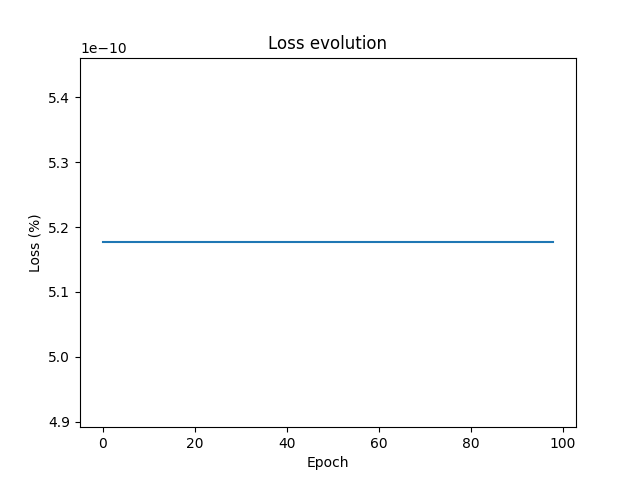
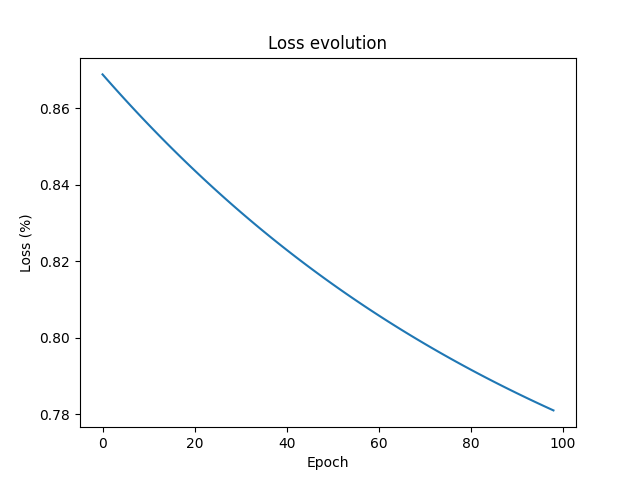
maj

diff --git a/src/model.py b/src/model.py
@@ -116,7 +116,8 @@ class CustomLoss(nn.Module):
         positive = torch.count_nonzero(adjacency_matrixes).item()
         negative = (entities_count**2) * graph.get_relations_count() - positive
         
-        return (-1 / ((1 + negative) * positive)) * loss.sum()
+        # return (-1 / ((1 + negative) * positive)) * loss.sum()
+        return torch.mean(-1 * loss)
 
 class MSE(nn.Module):
     def __init__(self):
